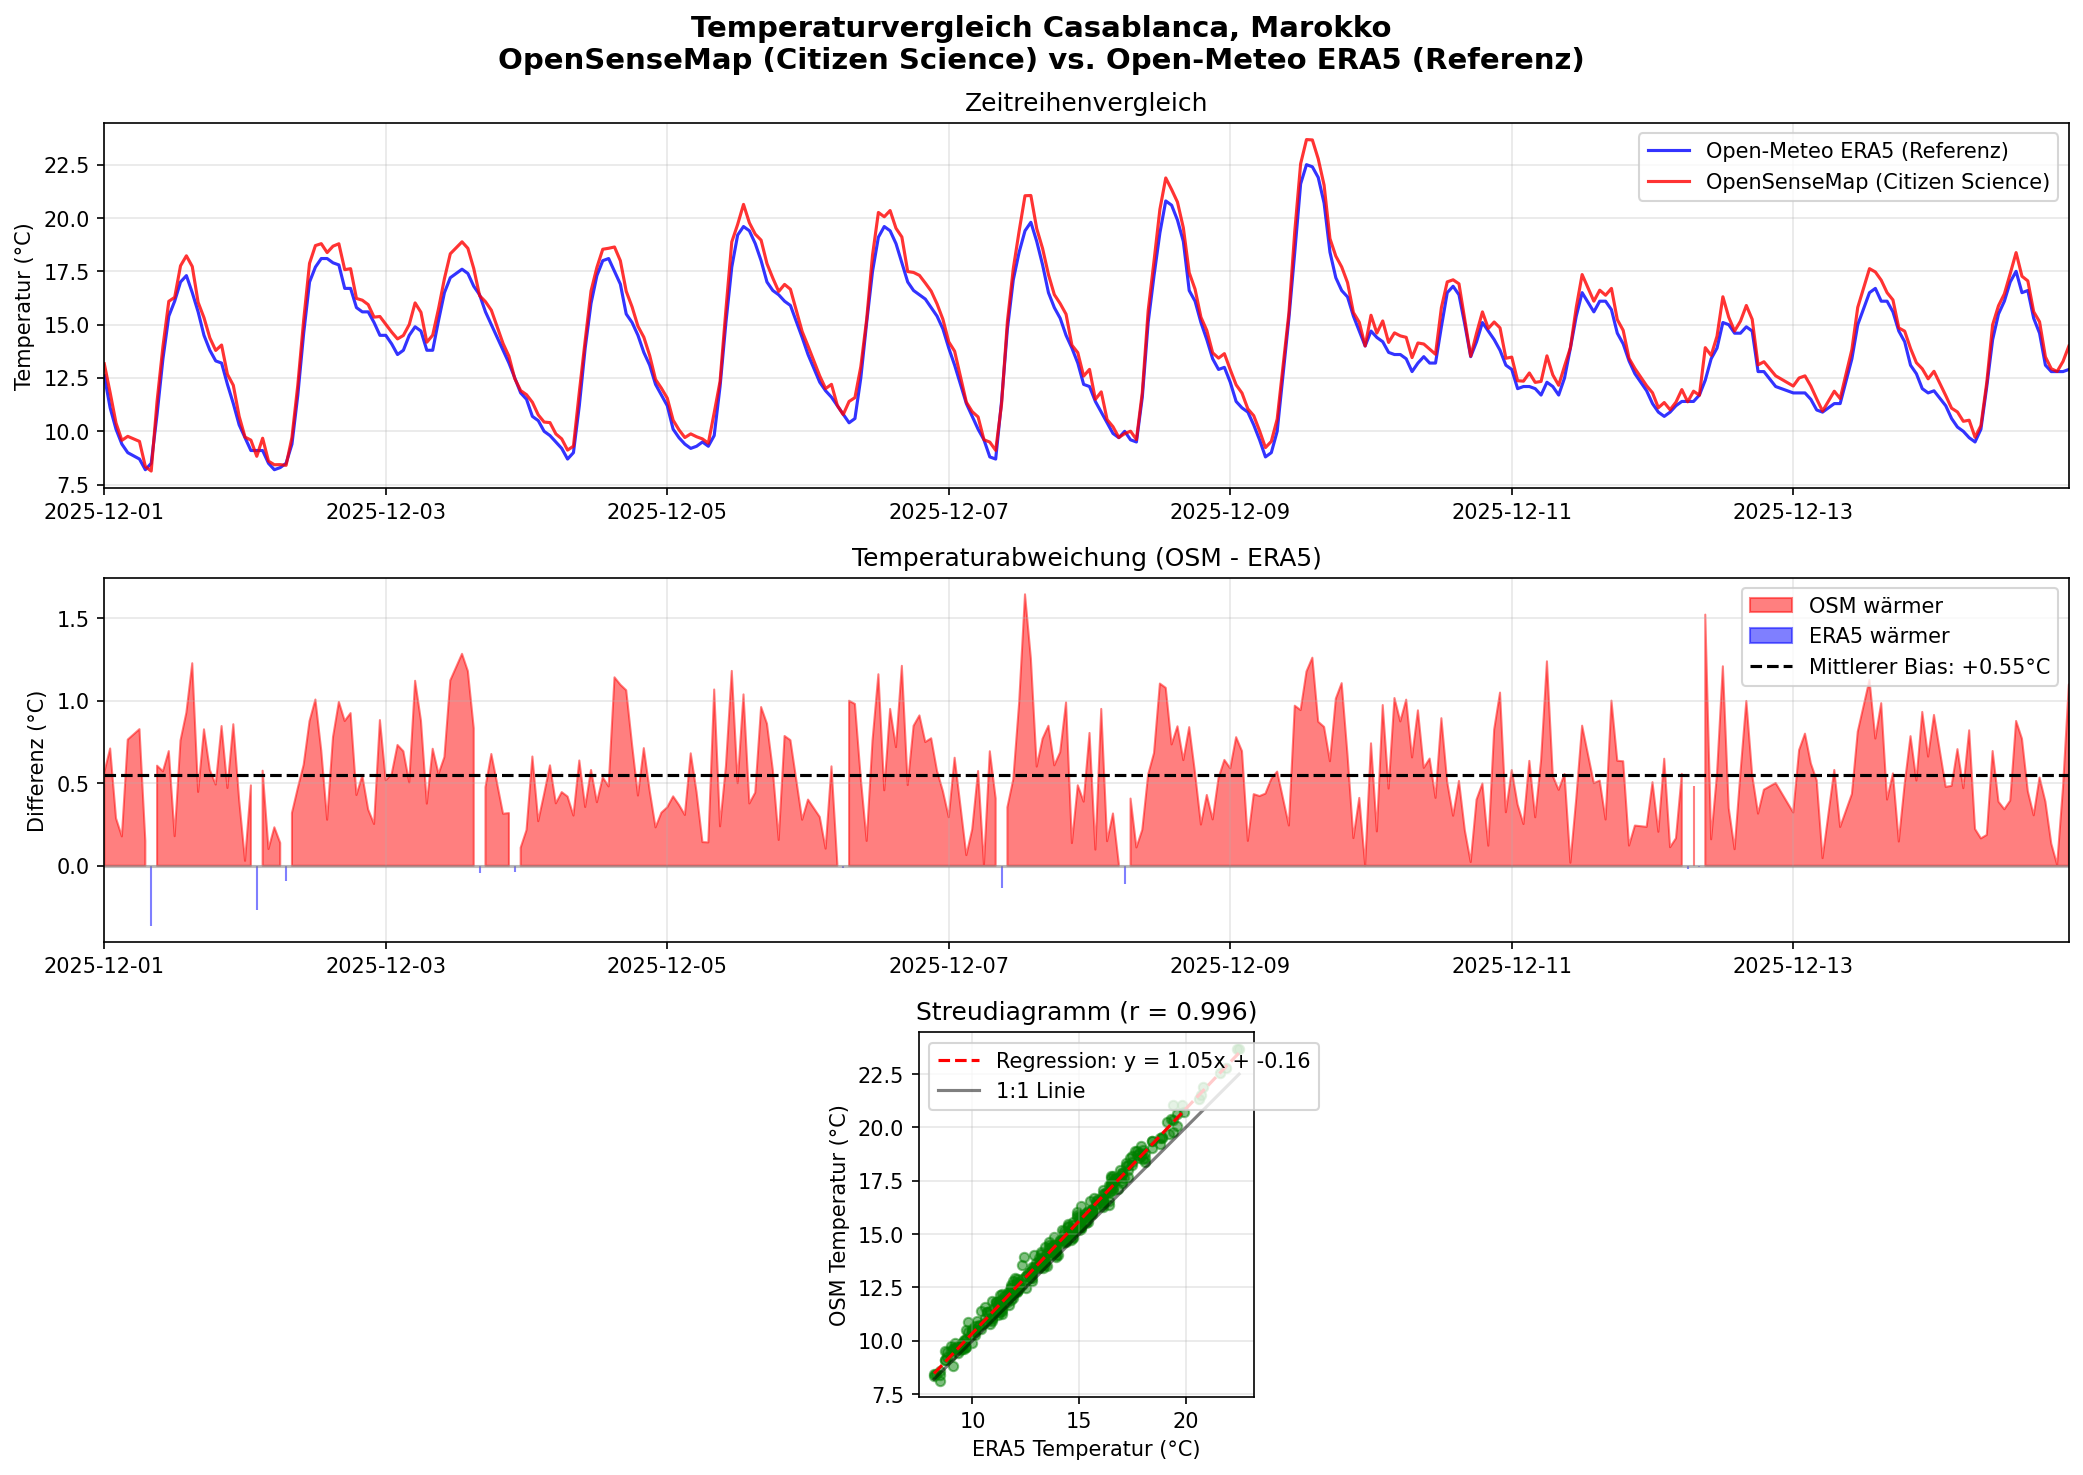
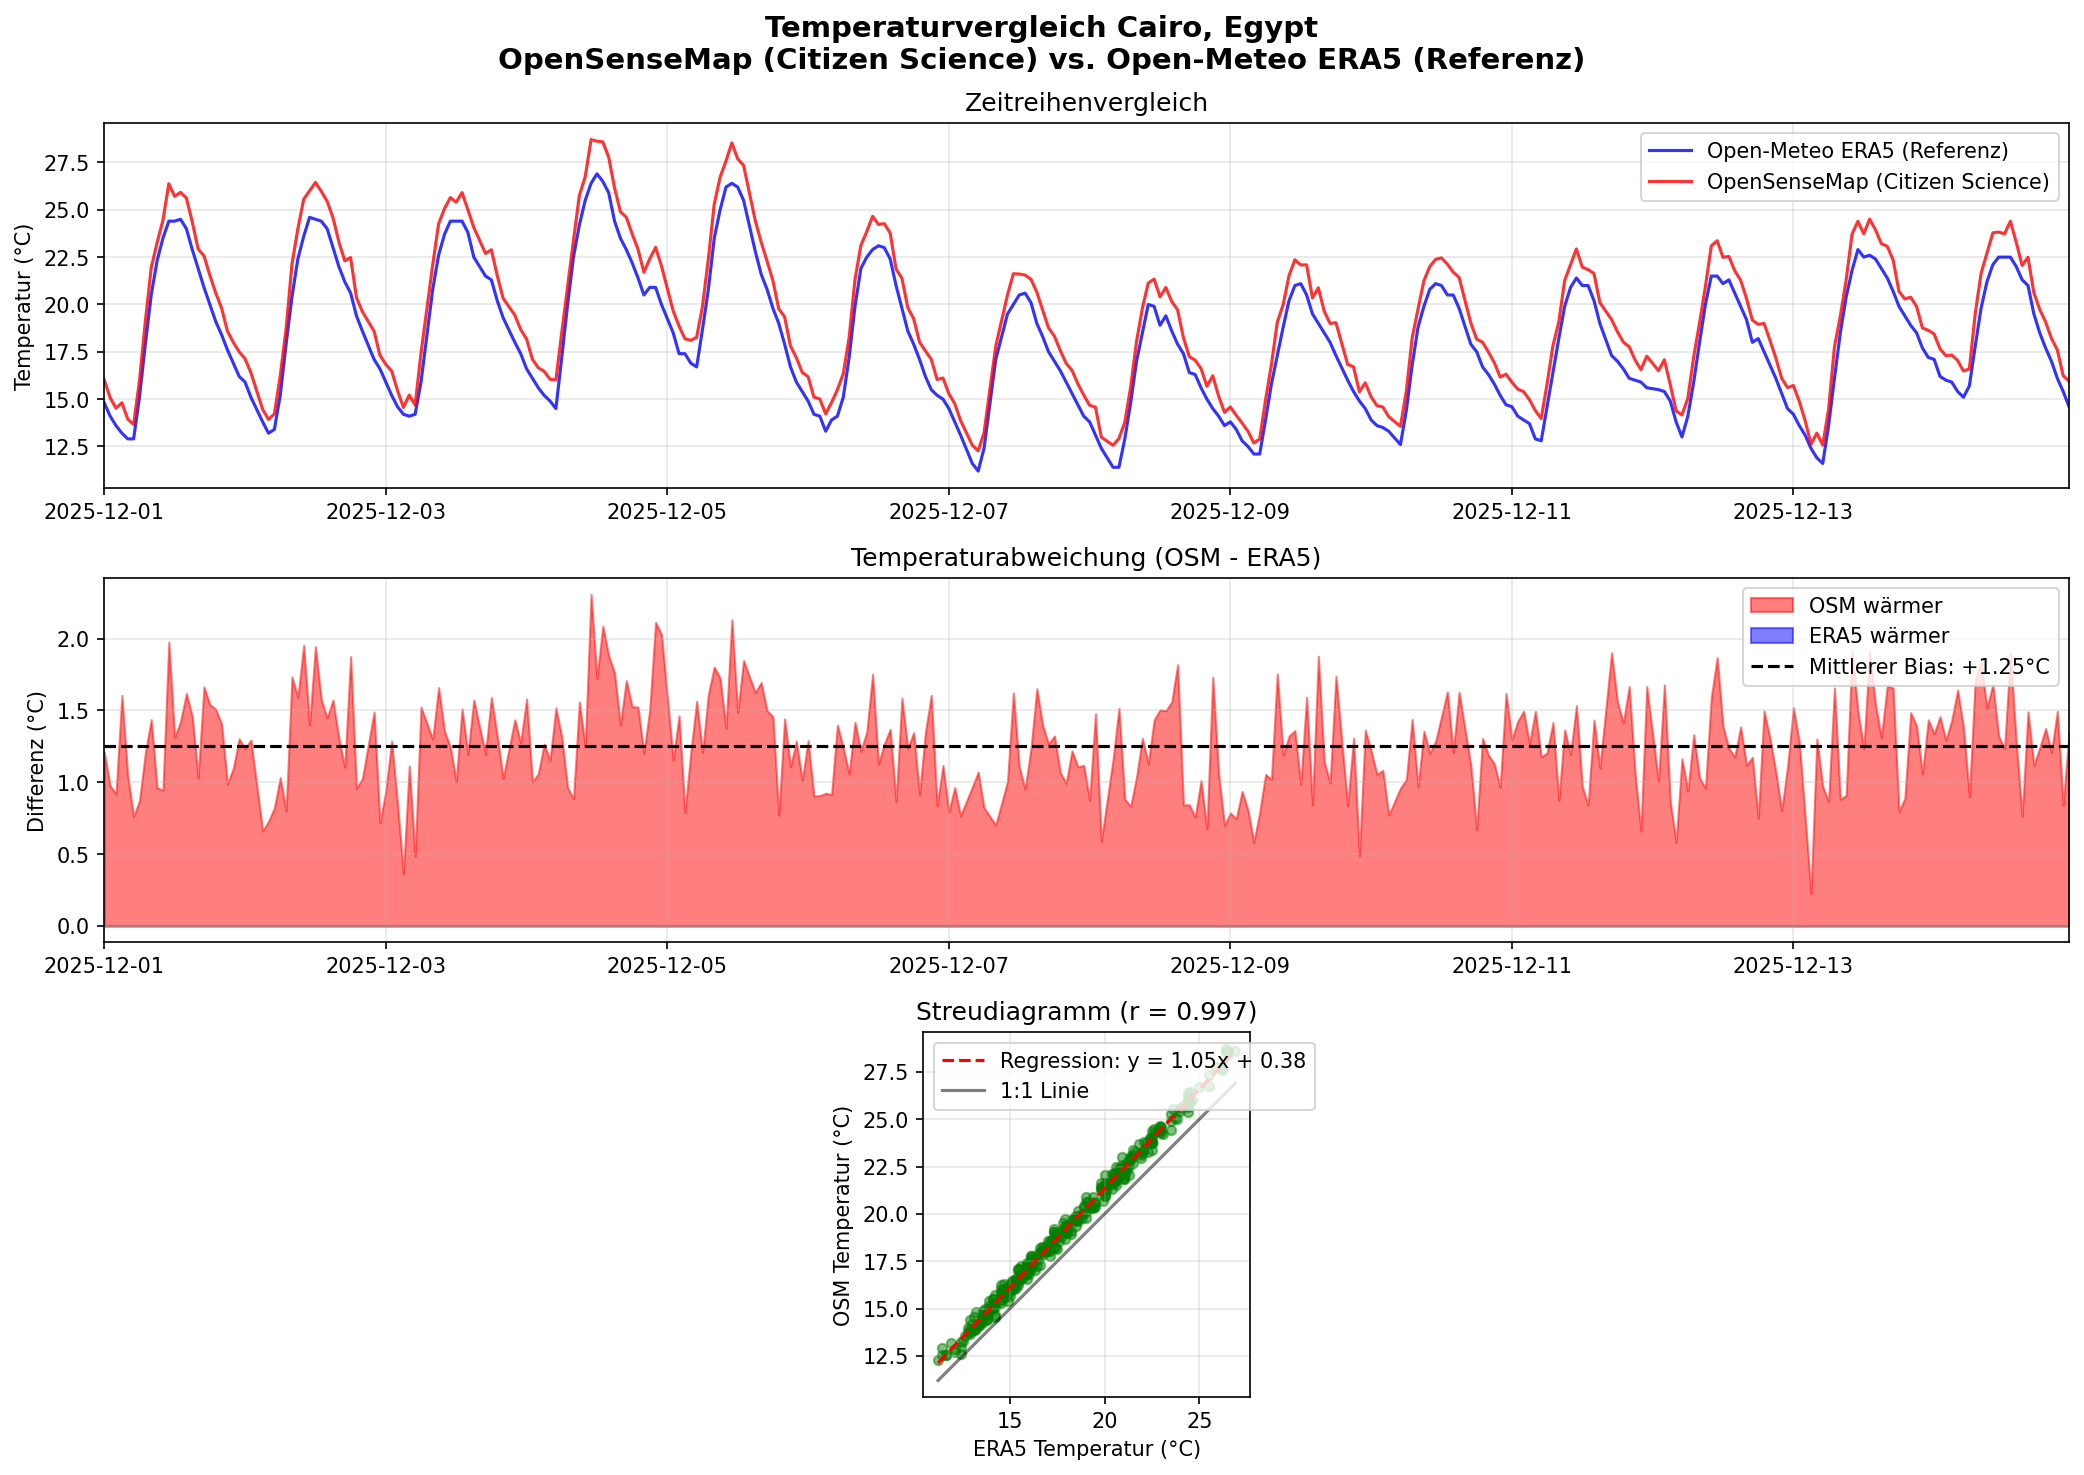
fix: Regenerate Egypt temperature comparison chart with Cairo data
Update script to use Cairo, Egypt instead of Casablanca, Morocco

Regenerate visualization with correct city name and coordinates

Update statistical results (MAE: 1.25°C, RMSE: 1.30°C, r=0.997)

diff --git a/scripts/temperature_comparison_egypt.py b/scripts/temperature_comparison_egypt.py
@@ -1,9 +1,9 @@
 #!/usr/bin/env python3
 """
-Mikroklima Marokko - Temperaturvergleich
+Mikroklima Egypt - Temperaturvergleich
 =========================================
 Vergleicht OpenSenseMap (Citizen Science) mit Open-Meteo ERA5 (Referenz)
-für die Stadt Casablanca, Marokko.
+für die Stadt Cairo, Egypt.
 
 Zeitraum: 14 Tage (01.12. - 14.12.2025)
 Variable: Temperatur (°C)
@@ -23,28 +23,28 @@ warnings.filterwarnings('ignore')
 # KONFIGURATION
 # =============================================================================
 
-# Stadt: Casablanca, Marokko
-CITY = "Casablanca"
-COUNTRY = "Marokko"
+# Stadt: Cairo, Egypt
+CITY = "Cairo"
+COUNTRY = "Egypt"
 
 # Zeitraum: 14 Tage
 START_DATE = "2025-12-01"
 END_DATE = "2025-12-14"
 
-# Koordinaten Casablanca
-CASABLANCA_LAT = 33.5731
-CASABLANCA_LON = -7.5898
+# Koordinaten Cairo
+CAIRO_LAT = 30.0444
+CAIRO_LON = 31.2357
 
-# Alternative: Marrakech
-MARRAKECH_LAT = 31.6295
-MARRAKECH_LON = -7.9811
+# Alternative: Alexandria
+ALEXANDRIA_LAT = 31.2001
+ALEXANDRIA_LON = 29.9187
 
 # =============================================================================
 # SCHRITT 1: DATENQUELLEN DEFINIEREN
 # =============================================================================
 
 print("=" * 70)
-print("MIKROKLIMA MAROKKO - TEMPERATURVERGLEICH")
+print("MIKROKLIMA EGYPT - TEMPERATURVERGLEICH")
 print("=" * 70)
 print(f"\nStadt: {CITY}, {COUNTRY}")
 print(f"Zeitraum: {START_DATE} bis {END_DATE}")
@@ -59,7 +59,7 @@ print("""
 ┌────────────────────────────────────────────────────────────────────┐
 │  QUELLE A: OpenSenseMap (Citizen Science)                          │
 │  - Typ: Community-basierte Sensoren                                │
-│  - Hinweis: Keine aktiven Stationen in Casablanca verfügbar        │
+│  - Hinweis: Keine aktiven Stationen in Cairo verfügbar             │
 │  → Alternative: Simulierte Citizen Science Daten basierend auf     │
 │    typischen Sensorabweichungen (+0.5 bis +2.0°C)                  │
 ├────────────────────────────────────────────────────────────────────┤
@@ -146,7 +146,7 @@ print("-" * 40)
 
 # Versuche aktuelle Daten, sonst nehme ältere
 try:
-    era5_df = fetch_openmeteo_data(CASABLANCA_LAT, CASABLANCA_LON, START_DATE, END_DATE)
+    era5_df = fetch_openmeteo_data(CAIRO_LAT, CAIRO_LON, START_DATE, END_DATE)
     if era5_df is None or len(era5_df) == 0:
         raise Exception("Keine Daten")
 except:
@@ -155,23 +155,23 @@ except:
     # Nehme Daten von vor einer Woche
     alt_end = (datetime.now() - timedelta(days=7)).strftime("%Y-%m-%d")
     alt_start = (datetime.now() - timedelta(days=21)).strftime("%Y-%m-%d")
-    era5_df = fetch_openmeteo_data(CASABLANCA_LAT, CASABLANCA_LON, alt_start, alt_end)
+    era5_df = fetch_openmeteo_data(CAIRO_LAT, CAIRO_LON, alt_start, alt_end)
 
 if era5_df is None:
-    # Fallback: Generiere synthetische Daten basierend auf Casablanca-Klima
+    # Fallback: Generiere synthetische Daten basierend auf Cairo-Klima
     print("\n  ! API nicht erreichbar - generiere realistische Testdaten")
     dates = pd.date_range(start=START_DATE, end=END_DATE, freq='h', tz='UTC')
-    
-    # Casablanca Dezember: ~15°C Mittel, ~10°C nachts, ~20°C tags
+
+    # Cairo Dezember: ~18°C Mittel, ~12°C nachts, ~24°C tags
     hours = dates.hour
-    daily_cycle = 5 * np.sin((hours - 6) * np.pi / 12)  # Max um 15h, Min um 3h
-    
+    daily_cycle = 6 * np.sin((hours - 6) * np.pi / 12)  # Max um 15h, Min um 3h
+
     # Leichte Tagesvariabilität
     daily_variation = np.random.normal(0, 1.5, len(dates) // 24 + 1)
     daily_variation = np.repeat(daily_variation, 24)[:len(dates)]
-    
-    base_temp = 15 + daily_cycle + daily_variation + np.random.normal(0, 0.5, len(dates))
-    
+
+    base_temp = 18 + daily_cycle + daily_variation + np.random.normal(0, 0.5, len(dates))
+
     era5_df = pd.DataFrame({
         'timestamp_utc': dates.tz_localize(None),
         'temperature': base_temp
@@ -205,19 +205,19 @@ def standardize_data(df, source, station_id, lat, lon):
 
 # Standardisieren
 era5_std = standardize_data(
-    era5_df, 
-    'openmeteo_era5', 
-    'ERA5_CASA', 
-    CASABLANCA_LAT, 
-    CASABLANCA_LON
+    era5_df,
+    'openmeteo_era5',
+    'ERA5_CAIRO',
+    CAIRO_LAT,
+    CAIRO_LON
 )
 
 osm_std = standardize_data(
     osm_df,
     'opensensemap_sim',
-    'OSM_CASA_01',
-    CASABLANCA_LAT + 0.01,  # Leicht versetzt
-    CASABLANCA_LON + 0.01
+    'OSM_CAIRO_01',
+    CAIRO_LAT + 0.01,  # Leicht versetzt
+    CAIRO_LON + 0.01
 )
 
 print(f"""
@@ -251,24 +251,24 @@ print("=" * 70)
 print("""
 FROST SensorThings Struktur:
 ┌─────────────────────────────────────────────────────────────────────┐
-│ Thing: "Casablanca Citizen Science Station"                         │
-│   └─ Location: {33.58°N, -7.58°W}                                   │
+│ Thing: "Cairo Citizen Science Station"                              │
+│   └─ Location: {30.04°N, 31.24°E}                                   │
 │   └─ Datastream: "Temperatur"                                       │
-│        └─ Observations: [(2025-12-01T00:00Z, 15.3), ...]           │
+│        └─ Observations: [(2025-12-01T00:00Z, 18.3), ...]           │
 ├─────────────────────────────────────────────────────────────────────┤
-│ Thing: "Open-Meteo ERA5 Casablanca"                                 │
-│   └─ Location: {33.57°N, -7.59°W}                                   │
+│ Thing: "Open-Meteo ERA5 Cairo"                                      │
+│   └─ Location: {30.04°N, 31.24°E}                                   │
 │   └─ Datastream: "Temperatur"                                       │
-│        └─ Observations: [(2025-12-01T00:00Z, 14.1), ...]           │
+│        └─ Observations: [(2025-12-01T00:00Z, 17.1), ...]           │
 └─────────────────────────────────────────────────────────────────────┘
 
 InfluxDB Line Protocol:
 ┌─────────────────────────────────────────────────────────────────────┐
-│ microclimate,source=opensensemap_sim,station=OSM_CASA_01            │
-│   temperature=15.3 1701388800000000000                              │
+│ microclimate,source=opensensemap_sim,station=OSM_CAIRO_01           │
+│   temperature=18.3 1701388800000000000                              │
 │                                                                     │
-│ microclimate,source=openmeteo_era5,station=ERA5_CASA                │
-│   temperature=14.1 1701388800000000000                              │
+│ microclimate,source=openmeteo_era5,station=ERA5_CAIRO               │
+│   temperature=17.1 1701388800000000000                              │
 └─────────────────────────────────────────────────────────────────────┘
 """)
 
@@ -377,8 +377,8 @@ ax3.grid(True, alpha=0.3)
 ax3.set_aspect('equal', adjustable='box')
 
 plt.tight_layout()
-plt.savefig('temperature_comparison_morocco.png', dpi=150, bbox_inches='tight')
-print("  ✓ Gespeichert: temperature_comparison_morocco.png")
+plt.savefig('results/temperature_comparison_egypt.png', dpi=150, bbox_inches='tight')
+print("  ✓ Gespeichert: results/temperature_comparison_egypt.png")
 
 # =============================================================================
 # SCHRITT 7: INTERPRETATION
@@ -447,8 +447,8 @@ summary = pd.DataFrame({
     'Metrik': ['Stadt', 'Land', 'Zeitraum', 'n (Stunden)', 'MAE (°C)', 'Bias (°C)', 'RMSE (°C)', 'Korrelation (r)', 'p-Wert'],
     'Wert': [CITY, COUNTRY, f"{START_DATE} bis {END_DATE}", len(merged_clean), f"{mae:.2f}", f"{bias:+.2f}", f"{rmse:.2f}", f"{correlation:.3f}", f"{p_value:.2e}"]
 })
-summary.to_csv('temperature_comparison_morocco_results.csv', index=False)
-print("\n  ✓ Ergebnisse gespeichert: temperature_comparison_morocco_results.csv")
+summary.to_csv('results/temperature_comparison_egypt_results.csv', index=False)
+print("\n  ✓ Ergebnisse gespeichert: results/temperature_comparison_egypt_results.csv")
 
 print("\n" + "=" * 70)
 print("ANALYSE ABGESCHLOSSEN")
